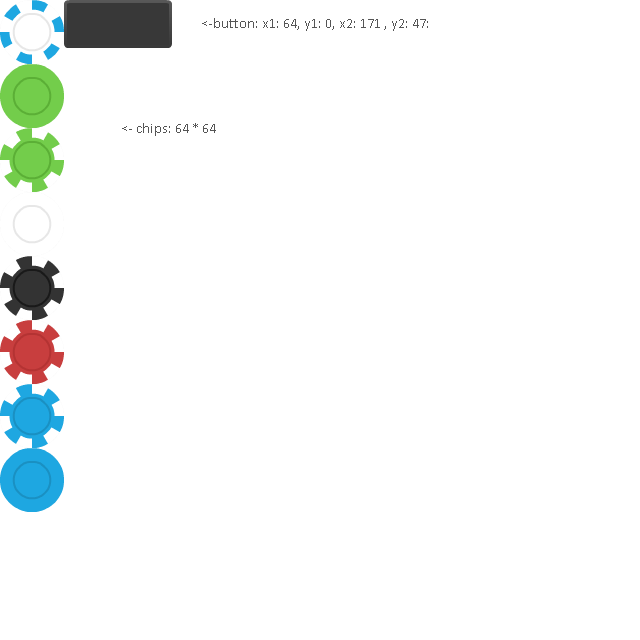
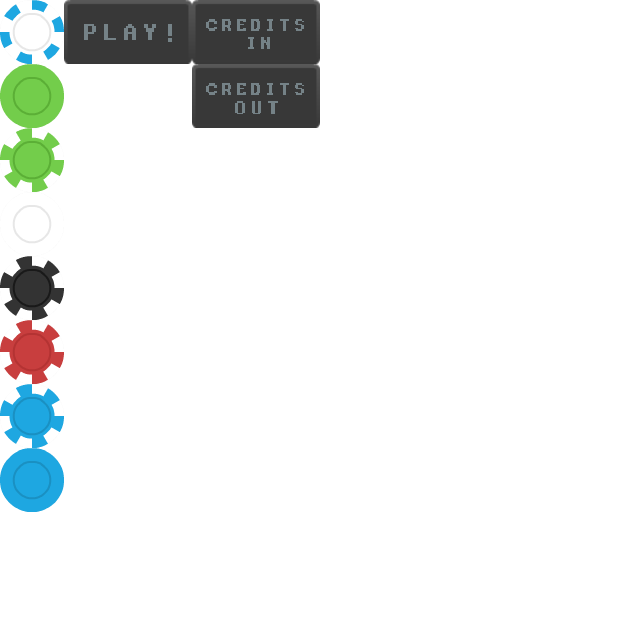
general game board presentation

Changed region(s): [[0.0938, 0.0, 0.5, 0.2188], [0.2188, 0.1875, 0.25, 0.2188]]

diff --git a/src/ChallengeGame.h b/src/ChallengeGame.h
@@ -30,11 +30,15 @@ namespace MyChallengeGame
         Texture2D* spritesheet;
         Camera2D* camera;
         BitmapFont* font;
-        Button* button;
+
+        Button playButton;
+        Button creditsInButton;
+        Button creditsOutButton;
 
         glm::vec2 dude_position = glm::vec2(0, 0);
 
-        glm::vec2 centerCoord = glm::vec2(0, 0);
+        glm::vec2 gameBoardCenter = glm::vec2(-32, -340+224);
+        glm::vec2 gamePieceSize = glm::vec2(64, 64);
 
         const int MAX_INDEX = 48;
         std::vector<glm::vec2> positions;
@@ -51,6 +55,11 @@ namespace MyChallengeGame
         tweeny::tween<float> position_tween = tweeny::from(moving_dude_x).to(100.0f).during(50000).via(tweeny::easing::circularInOut);
         bool updateTween = false;
 
+        /* Game state */
+
+        int gameplayCounter = 0;
+        int creditsCounter = 0;
+
         public:
         
         ChallengeGame(uint32_t screenWidth, uint32_t screenHeight, const char* windowTitle)
@@ -66,7 +75,6 @@ namespace MyChallengeGame
             delete camera;
             delete font;
             delete spritesheet;
-            delete button;
         }
 
         void Run() override
@@ -86,23 +94,43 @@ namespace MyChallengeGame
             shader = new Shader("Shaders/vertex.vert", "Shaders/fragment.frag");
             shader->use();
             dude = new Texture2D("Shaders/dude1.png", {});
-            //spritesheet = new Texture2D("assets/chips.png", {GL_REPEAT, GL_REPEAT, GL_LINEAR_MIPMAP_LINEAR, GL_LINEAR_MIPMAP_LINEAR, true});
             spritesheet = new Texture2D("assets/chips.png", {});
 
             camera = new Camera2D(GetViewport());
             camera->Position.x = 0;
             camera->Position.y = 0;
             camera->Position.z = 1.0f;
-            camera->Zoom = 2.0f;
+            camera->Zoom = 1.0f;
 
             spritebatch = new Spritebatch();
-            button = new Button(0, 0, spritesheet, {64, 0, 108, 48},
+
+            /* create some buttons */
+
+            playButton = Button(GetViewport().HalfWidth() * -1 + 36, GetViewport().HalfHeight() - 36 - 64, spritesheet, {64, 0, 128, 64},
                 [=]()-> void
                 {
-                    std::cout << "clicked on button" << std::endl;
+                    std::cout << "clicked on button play" << std::endl;
                     tintIndex++;
+                    creditsCounter = std::max(0, creditsCounter - 1);
+                    gameplayCounter++;
                 }
-            ); 
+            );
+
+            creditsInButton = Button(GetViewport().HalfWidth() - 128 * 2 - 36, GetViewport().HalfHeight() - 36 - 64, spritesheet, {64 + 128, 0, 128, 64},
+                [=]()-> void
+                {
+                    std::cout << "clicked on credits in" << std::endl;
+                    creditsCounter++;
+                }
+            );
+
+            creditsOutButton = Button(GetViewport().HalfWidth() - 128 - 36, GetViewport().HalfHeight() - 36 - 64, spritesheet, {64 + 128, 64, 128, 64},
+                [=]()-> void
+                {
+                    std::cout << "clicked on credits out" << std::endl;
+                    creditsCounter = 0;
+                }
+            );
 
             // let's try to make our little animation
 
@@ -121,7 +149,7 @@ namespace MyChallengeGame
                 for(int i = 0; i < directionLoopCounter; i++)
                 {
                     //Move(indexNumber, currentDirection);
-                    PlaceSquare(indexNumber,currentDirection);
+                    PlaceSquare(indexNumber, currentDirection);
                     indexNumber++;
                 }
 
@@ -142,7 +170,9 @@ namespace MyChallengeGame
         void Update(float delta) override
         {
             camera->Update(delta);
-            button->Update(camera, delta);
+            playButton.Update(camera, delta);
+            creditsInButton.Update(camera, delta);
+            creditsOutButton.Update(camera, delta);
             
             if(Input::IsKeyJustDown(Key::Enter))
             {
@@ -216,18 +246,31 @@ namespace MyChallengeGame
                 glm::vec4 tint = i == (tintIndex % MAX_INDEX) ? glm::vec4(1, 0, 0, 1) : glm::vec4(1);
 
                 spritebatch->Begin(shader, camera, tint);
-                spritebatch->Draw(dude, positions[i].x, positions[i].y);
+                spritebatch->Draw(spritesheet, positions[i].x, positions[i].y, {0, 0, 64, 64});
                 spritebatch->End();
             }
 
             spritebatch->Begin(shader, camera, glm::vec4(1));
-            spritebatch->Draw(spritesheet, 64, 64, {0, 0, 64, 64});
-            button->Draw(spritebatch, delta);
+            playButton.Draw(spritebatch, delta);
+            creditsInButton.Draw(spritebatch, delta);
+            creditsOutButton.Draw(spritebatch, delta);
             spritebatch->End();
 
+            // framerate counter
             spritebatch->Begin(shader, camera, glm::vec4(0, 1, 0, 1), 0, true);
             spritebatch->SetCustomView(glm::scale(glm::mat4(1), glm::vec3(4)));
-            spritebatch->DrawString(font, 12, 12, std::to_string(60.0f / (delta*1000.0f)).c_str());
+            spritebatch->DrawString(font, 1, 1, std::to_string(60.0f / (delta*1000.0f)).c_str());
+            spritebatch->End();
+
+            // game state render
+            float scale = 2.0f;
+            spritebatch->Begin(shader, camera, glm::vec4(1), 0, true);
+            spritebatch->SetCustomView(glm::scale(glm::mat4(1), glm::vec3(scale)));
+            //spritebatch->DrawString(font, playButton.position.x, playButton.position.y - 16, (std::string("Number of plays: ") + std::to_string(gameplayCounter)).c_str());
+            glm::vec2 pos1 = camera->WorldToScreen(playButton.position.x, playButton.position.y - 64);
+            glm::vec2 pos2 = camera->WorldToScreen(creditsInButton.position.x + 60, creditsInButton.position.y - 44);
+            spritebatch->DrawString(font, pos1.x / scale, pos1.y / scale, (std::string("Number of\nplays: ") + std::to_string(gameplayCounter)).c_str());
+            spritebatch->DrawString(font, pos2.x / scale, pos2.y / scale, (std::string("Credits: ") + std::to_string(creditsCounter)).c_str());
             spritebatch->End();
 
         }
@@ -241,22 +284,24 @@ namespace MyChallengeGame
         {
             if(index > 0)
                 positions[index] = positions[index - 1];
+            else
+                positions[index] = gameBoardCenter;
 
             if(direction == Direction::Left)
             {
-                positions[index].x -= dude->GetWidth();     
+                positions[index].x -= gamePieceSize.x;
             }
             if(direction == Direction::Right)
             {
-                positions[index].x += dude->GetWidth();     
+                positions[index].x += gamePieceSize.x;  
             }
             if(direction == Direction::Up)
             {
-                positions[index].y -= dude->GetHeight();     
+                positions[index].y -= gamePieceSize.y;
             }
             if(direction == Direction::Down)
             {
-                positions[index].y += dude->GetHeight();     
+                positions[index].y += gamePieceSize.y;
             }
         }
 
@@ -267,19 +312,19 @@ namespace MyChallengeGame
 
             if(direction == Direction::Left)
             {
-                positions[index].x -= dude->GetWidth();     
+                positions[index].x -= gamePieceSize.x;
             }
             if(direction == Direction::Right)
             {
-                positions[index].x += dude->GetWidth();     
+                positions[index].x += gamePieceSize.x;  
             }
             if(direction == Direction::Up)
             {
-                positions[index].y -= dude->GetHeight();     
+                positions[index].y -= gamePieceSize.y;
             }
             if(direction == Direction::Down)
             {
-                positions[index].y += dude->GetHeight();     
+                positions[index].y += gamePieceSize.y;
             }
         }
 

diff --git a/src/Button.h b/src/Button.h
@@ -14,6 +14,7 @@ namespace MyChallengeGame
 
         glm::vec2 position;
 
+        Button();
         Button(int32_t x, int32_t y, Texture2D* texture, Rectangle<int> clipRect, std::function<void()> callback = nullptr);
         ~Button();
 
@@ -23,11 +24,11 @@ namespace MyChallengeGame
 
         private:
 
-        Texture2D* m_Texture;
-        Rectangle<int> m_clipRect;
+        Texture2D* m_Texture = nullptr;
+        Rectangle<int> m_clipRect = {0, 0, 0, 0};
 
-        int m_ButtonWidth;
-        int m_ButtonHeight;
+        int m_ButtonWidth = 0;
+        int m_ButtonHeight = 0;
 
         std::function<void()> m_callback;
 

diff --git a/src/Main.cpp b/src/Main.cpp
@@ -7,7 +7,7 @@ int main (int argc, char *argv[])
 
     std::cout << "Hello new project!" << std::endl;
 
-    MyChallengeGame::ChallengeGame game = MyChallengeGame::ChallengeGame(800, 600, "Game Development Challenge");
+    MyChallengeGame::ChallengeGame game = MyChallengeGame::ChallengeGame(520, 680, "GameDevelopmentChallenge_JorgeNoro");
     game.Run();
 
     return EXIT_SUCCESS;

diff --git a/src/Button.cpp b/src/Button.cpp
@@ -4,6 +4,12 @@
 
 namespace MyChallengeGame
 {
+
+    Button::Button()
+    {
+        
+    }
+
     Button::Button(int32_t x, int32_t y, Texture2D* texture, Rectangle<int> clipRect, std::function<void()> callback)
         : m_Texture(texture), m_clipRect(clipRect)
     {
